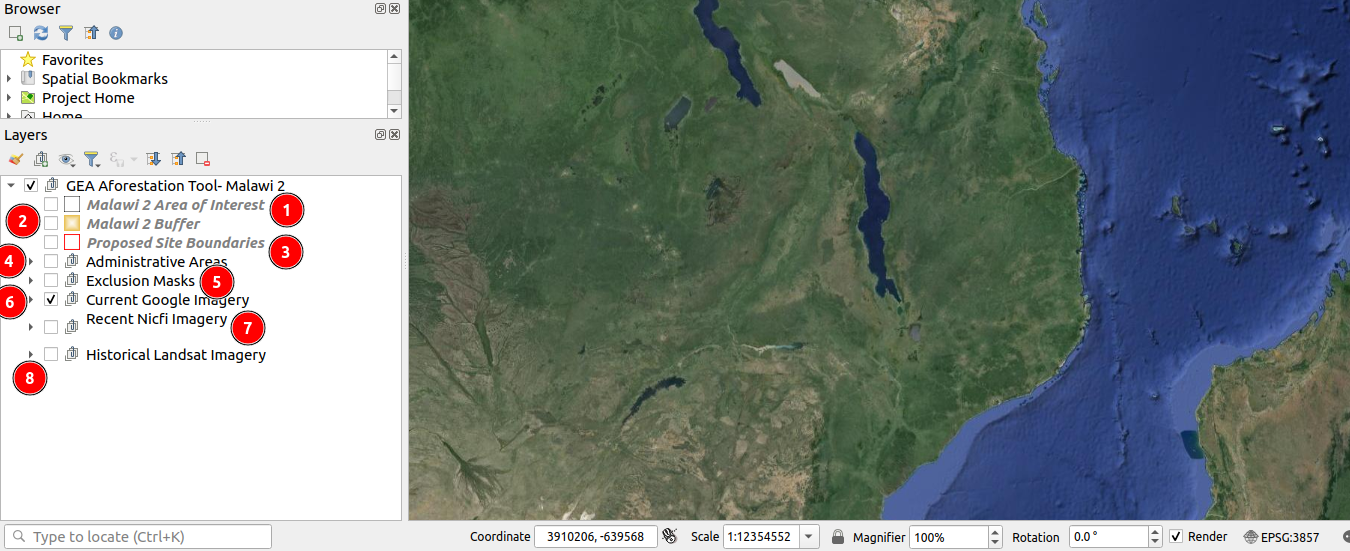
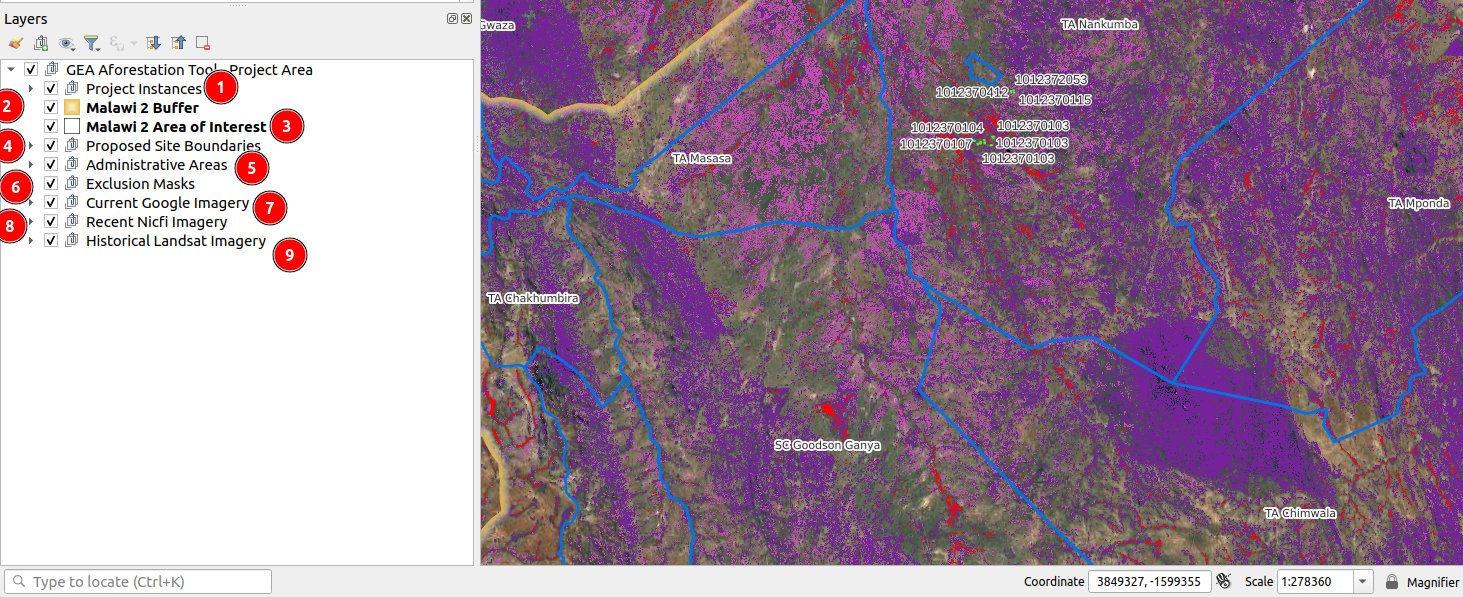
Added project instance and attribute table docs

diff --git a/docs/src/user/manual/gea-reforestation.md b/docs/src/user/manual/gea-reforestation.md
@@ -52,11 +52,15 @@ license: the reforestation tool is made available to Global Evergreening Global 
 
     The map navigation toolbar offers many options, some of which are:
 
-    1. **Pan:** Allows the user to pan the map to a specific location.
-    2. **Zoom in:** Zooms in on the map to show more detail.
-    3. **Zoom out:** Zooms out of the map to show a wider area.
-    4. **Full zoom:** Zooms in or out to the maximum extent.
-    5. **Show map tips:** Displays additional information about the map, such as coordinates and scale.
+    **1. Pan:** Allows the user to pan the map to a specific location.
+
+    **2. Zoom in:** Zooms in on the map to show more detail.
+
+    **3. Zoom out:** Zooms out of the map to show a wider area.
+
+    **4. Full zoom:** Zooms in or out to the maximum extent.
+
+    **5. Show map tips:** Displays additional information about the map, such as coordinates and scale.
 
     3.3 **Digitising Toolbar:**
 
@@ -64,10 +68,13 @@ license: the reforestation tool is made available to Global Evergreening Global 
 
     The digitising toolbar offers many options, some of which are:
 
-    1. **Current edits:** Displays the current editing state of the layer.
-    2. **Toggle editing:** Toggles the editing mode on or off.
-    3. **Save layer edits:** Saves any changes made to the layer.
-    4. **Add polygon feature:** Creates a new polygon feature on the map.
+    **1. Current edits:** Displays the current editing state of the layer.
+
+    **2. Toggle editing:** Toggles the editing mode on or off.
+
+    **3. Save layer edits:** Saves any changes made to the layer.
+
+    **4. Add polygon feature:** Creates a new polygon feature on the map.
 
     ### 3.4 Layer List
 
@@ -75,29 +82,35 @@ license: the reforestation tool is made available to Global Evergreening Global 
 
     ![Layers List](./img/layer-list-1.png)
 
-    - Malawi 2 Area of Interest
+    - Project Instances
     - Malawi 2 Buffer
+    - Malawi 2 Area of Interest
     - Proposed Site Boundaries
-    - Gea Afforestation Tool-Malawi 2
     - Administrative Areas
     - Exclusion Masks
     - Current Google Imagery
     - Recent NICFI Imagery
     - Historical Landsat Imagery
 
-    1. **Malawi 2 Area of Interest:** Check the `Malawi 2 Area of Interest` checkbox to visualise the area of interest, it will be shown on the map canvas with a black line.
+    **1. Project Instances:** This layer contains all the project instances the user has drawn on the canvas, including the imported ones.
 
-    ![Area of interest](./img/layer-list-2.png)
+    - Check the instance `checkbox` to visualise the instance on the map.
 
-    2. **Malawi 2 Buffer:** Check the `Malawi 2 Buffer` checkbox to visualise the buffer area, it will be shown on the map canvas with a yellow line.
+    ![Project Instances](./img/layer-list-19.png)
+
+    **2. Malawi 2 Buffer:** Check the `Malawi 2 Buffer` checkbox to visualise the buffer area, it will be shown on the map canvas with a yellow line.
 
     ![Buffer](./img/layer-list-3.png)
 
-    3. **Proposed Site Boundaries:** Displays the proposed boundaries created by the user for the project. Check the `Proposed Site Boundaries` checkbox and the proposed boundaries will be shown on the map canvas with a red line.
+    **3. Malawi 2 Area of Interest:** Check the `Malawi 2 Area of Interest` checkbox to visualise the area of interest, it will be shown on the map canvas with a black line.
+
+    ![Area of interest](./img/layer-list-2.png)
+
+    **4. Proposed Site Boundaries:** Displays the proposed boundaries created by the user for the project. Check the `Proposed Site Boundaries` checkbox and the proposed boundaries will be shown on the map canvas with a red line.
 
     ![Proposed boundaries](./img/layer-list-4.png)
 
-    4. **Administrative Areas:** This includes three options with checkboxes that allow users to visualise different administrative areas on the map canvas.
+    **5. Administrative Areas:** This includes three options with checkboxes that allow users to visualise different administrative areas on the map canvas.
 
     ![Administrative areas](./img/layer-list-5.png)
 
@@ -113,7 +126,7 @@ license: the reforestation tool is made available to Global Evergreening Global 
 
         ![sub-divisional administrative units areas](./img/layer-list-8.png)
 
-    5. **Exclusion Masks:**
+    **6. Exclusion Masks:**
 
     ![Exclusion Masks](./img/layer-list-9.png)
 
@@ -134,11 +147,11 @@ license: the reforestation tool is made available to Global Evergreening Global 
     > Additional Notes on Viewing Different Imagery Layers:
     To effectively view the different imagery layers (Google Imagery, NICFI, and Landsat), you need to toggle the visibility of these layers.
 
-    6. **Current Google Imagery:** Displays the most recent Google imagery. Check the relevant checkbox to view `Current Google imagery`.
+    **7. Current Google Imagery:** Displays the most recent Google imagery. Check the relevant checkbox to view `Current Google imagery`.
 
     ![Google Imagery](./img/layer-list-14.png)
 
-    7. **Recent NICFI Imagery:**
+    **8. Recent NICFI Imagery:**
 
     - **Turn Off Google Imagery/Historical Landsat Imagery to View NICFI Imagery:** In the Layers panel, locate the Google Imagery/Historical Landsat Imagery layer. Click the checkbox next to the Google Imagery/Historical Landsat Imagery layer to turn it off. This will allow the NICFI imagery to be visible.
 
@@ -155,7 +168,7 @@ license: the reforestation tool is made available to Global Evergreening Global 
     ![NICFI Imagery](./img/layer-list-16.png)
     ![NICFI Imagery](./img/layer-list-18.png)
 
-    8. **Historical Landsat Imagery:** Displays historical Landsat imagery. Check the relevant checkbox to view historical Landsat imagery. The user can use the historical imagery to compare the current and historical imagery differences.
+    **9. Historical Landsat Imagery:** Displays historical Landsat imagery. Check the relevant checkbox to view historical Landsat imagery. The user can use the historical imagery to compare the current and historical imagery differences.
 
     - **Turn Off Google Imagery/NICFI Imagery to View Landsat Imagery:** In the Layers panel, locate the Google Imagery/NICFI imagery layer. Click the checkbox next to the Google Imagery/NICFI imagery layer to turn it off. This will reveal the Landsat imagery layer below.
 

diff --git a/docs/src/user/manual/gea-reforestation-tool.md b/docs/src/user/manual/gea-reforestation-tool.md
@@ -115,9 +115,36 @@ After selecting the desired project instance user will click on the `open` butto
 * **No:**  Cancel the process.
 * **Yes:** Overwrite names.
 
-After saving the instance, the selected instance will be added to the project instances in the layer section.
+## Project Instances 
+
+After importing the project instances or drawing them manually, they will be added to the `Project Instances` group within the `Layers` section.
 
 ![Qgis Interface](./img/gea-reforestation-tool-12.png)
+
+
+### Attribute Table
+
+The attribute table contains information about the project instances, including the farmer's ID and other relevant details associated with the land. This table provides an organized view of all the data linked to each farmer and their land.
+
+* To open the attribute table right click on the project instance and choose 1⃣ `Open Attribute Table` from the menu.
+
+    ![Attribute table](./img/gea-reforestation-tool-18.png)
+
+* The attribute table will look like this.
+
+    ![Attribute Table Details](./img/gea-reforestation-tool-19.png)
+
+* These are the major details in the attribute table, associated with each farmer's ID.
+
+    ![Major Elements of Table](./img/gea-reforestation-tool-20.png)
+
+    **1. author:** ID of the associated author.
+
+    **2. project:** Country of the project.
+
+    **3. IncepDate:**  Date when the project started.
+    
+    **4. area(ha):** Area of the land in hectares (rounded to 2 decimal places).
 
 ## Automated Report
 
@@ -125,27 +152,33 @@ After saving the instance, the selected instance will be added to the project in
 
 1. **Generate Report:** Click on the `Generate Report` button to generate an automated report.
 
-    After clicking the `Generate Report` button **Site Report Progress** pop-up window will appear displaying the status of the report.
+    After clicking on the 1⃣ `Generate Report`, a `Report Progress` pop-up window will appear, showing the current status of the report generation process.
 
     ![Site Report Progress](./img/gea-reforestation-tool-15.png)
 
     * **Progress Bar:** Displaying the current status of the process.
-    * **Close:** Cancel the process.
-    * **Open PDF:** Open the PDF in a new pop-up window.
+    * **cancel:** Cancel the process.
+    * **Open reports folder:** Open the folder that contains all the generated reports along with the file which contains land location.
 
-    ## Generated Report
+         ![Report Folder](./img/gea-reforestation-tool-17.png)
 
-    This is the report generated after completing the process.
+* The report will be generated based on the farmer's ID. If there are multiple farmers, the system will generate individual reports for each farmer.
 
-    ![Generated Report](./img/gea-reforestation-tool-16.png)
+* Double-click on any report to open it.
 
-    1. **Area Eligibility:** Displaying the ID of the farmer.
-        - **Date of Project Inception:** The date when the project started.
-        - **Project:** The name of the country.
-        - **Report Author:** The person who captured the site.
-        - **Total Area:** The area of the site.
+## Generated Report
 
-    2. **Project Instance Sites:** Displaying the site location on the maps.
+This is the report generated after completing the process.
 
-    3. **Landscape Exclusion and Inclusion Areas:**  Displaying the Historical Landsat 2013 with and without exclusion masks and the
-    proposed site.
+![Generated Report](./img/gea-reforestation-tool-16.png)
+
+1. **Area Eligibility:** Displaying the ID of the farmer.
+    - **Date of Project Inception:** The date when the project started.
+    - **Project:** The name of the country.
+    - **Report Author:** The person who captured the site.
+    - **Total Area:** The area of the site.
+
+2. **Project Instance Sites:** Displaying the site location on the map.
+
+3. **Landscape Exclusion and Inclusion Areas:**  Displaying the Historical Landsat 2013 with and without exclusion masks and the proposed site.
+

diff --git a/docs/src/user/guide/gea-reforestation-tool.md b/docs/src/user/guide/gea-reforestation-tool.md
@@ -175,7 +175,6 @@ This tutorial will walk you through using the `Drawing Tool` to create project a
 
 ## How to import project instance
 
-
 **Accessing Import project instance:** Click on the 1⃣ `Import project instance` on the qgis  interface.
 
 ![Image Project Instance](./img/gea-reforestation-tool-16.png)
@@ -200,23 +199,44 @@ After selecting the desired project instance, a `Project Instance Attributes` po
 * **No:**  Cancel the process.
 * **Yes:** Overwrite names.
 
-After saving the instance, your selected instance will be added to the project instance in the layer section.
+## Project Instances
+
+After importing the project instances or drawing them manually, they will be added to the `Project Instances` group within the `Layers` section.
 
 ![Import Project Instances](./img/gea-reforestation-tool-19.png)
+
+### Attribute table 
+
+The attribute table contains information about the project instances, including the farmer's ID and other relevant details associated with the land. This table provides an organised view of all the data linked to each farmer and their land.
+
+* To open the attribute table right click on the project instance and choose 1⃣ `Open Attribute Table` from the menu.
+
+    ![Attribute table](./img/gea-reforestation-tool-24.png)
+
+* The attribute table will look like this.
+
+    ![Attribute Table Details](./img/gea-reforestation-tool-25.png)
+
+* The attribute table includes several key details such as the farmer's ID, author ID, project country, area of the land (rounded to two decimal places), and the date of inception. This data provides a comprehensive overview of each project instance and its associated attributes.
 
 ## Automated Report Generation
 
 ![Report](./img/gea-reforestation-tool-13.png)
 
-**Generating an Automated Report:** After drawing and saving your project area, click on the 1⃣ `Generate Report` button, upon clicking the button report generation process will start and the pop-up window will open, showing the status of the process.
+**Generating an Automated Report:** After drawing and saving your project area, click on the 1⃣ `Generate Report` button, upon clicking the button report generation process will start and the pop-up window `Report Progress` will open, showing the status of the process.
 
 ![Report Progress Dialog](./img/gea-reforestation-tool-21.png)
 
-* **Close:**  Close the dialog to continue working on your project.
-* **Open PDF:** Open the generated report PDF in a new pop-up window  (Shown below).
+* **Cancel:**  Close the dialog to continue working on your project.
+* **Open reports folder:** Open the folder that contains all the generated reports along with the file which contains land location.
 
-![Report PDF](./img/gea-reforestation-tool-22.png)
+    ![Report Folder](./img/gea-reforestation-tool-23.png)
+
+* The report will be generated based on the farmer's ID. If there are multiple farmers, the system will generate individual reports for each farmer.
+
+* Double-click on any report to open it.
+
+    ![Report PDF](./img/gea-reforestation-tool-22.png)
 
 By following these steps, you will be able to effectively use the Drawing Tool to define your project areas and generate automated reports for the GEA Reforestation project.
-
 

diff --git a/docs/src/user/guide/gea-reforestation.md b/docs/src/user/guide/gea-reforestation.md
@@ -83,8 +83,9 @@ The folder should contain the following components:
 
 You can use the `Layers` panel to visualise and interact with the various layers in the project. In the Layers panel, you will see the following layers listed:
 
-- Malawi 2 Area of Interest
+- Project Instances
 - Malawi 2 Buffer
+- Malawi 2 Area of Interest
 - Proposed Site Boundaries
 - Administrative Areas (Malawi 2 Country, Malawi 2 District, Malawi 2 Sub-divisional Administrative Unit)
 - Exclusion Masks (Grass, Wetland, Forest, Soil Carbon)
@@ -96,13 +97,21 @@ You can use the `Layers` panel to visualise and interact with the various layers
 
 ![Malavi 2](./img/gea-reforestation-9.png)
 
-**Malawi 2 Area of Interest:**
+**Project Instances:**
 
-- Check the `Malawi 2 Area of Interest` checkbox to visualise the area of interest on the map canvas. You will see a black line outlining the area.
+- `Project Instances` This layer contains all the project instances the user has drawn on the canvas, including the imported ones.
+
+- Check the instance checkbox to visualise the instance on the map.
+
+![Project Instances](./img/gea-reforestation-14.png)
 
 **Malawi 2 Buffer:**
 
 - Check the `Malawi 2 Buffer` checkbox to visualise the buffer area around the Malawi 2 area of interest. You will see a yellow line on the map canvas.
+
+**Malawi 2 Area of Interest:**
+
+- Check the `Malawi 2 Area of Interest` checkbox to visualise the area of interest on the map canvas. You will see a black line outlining the area.
 
 **Proposed Site Boundaries:**
 
